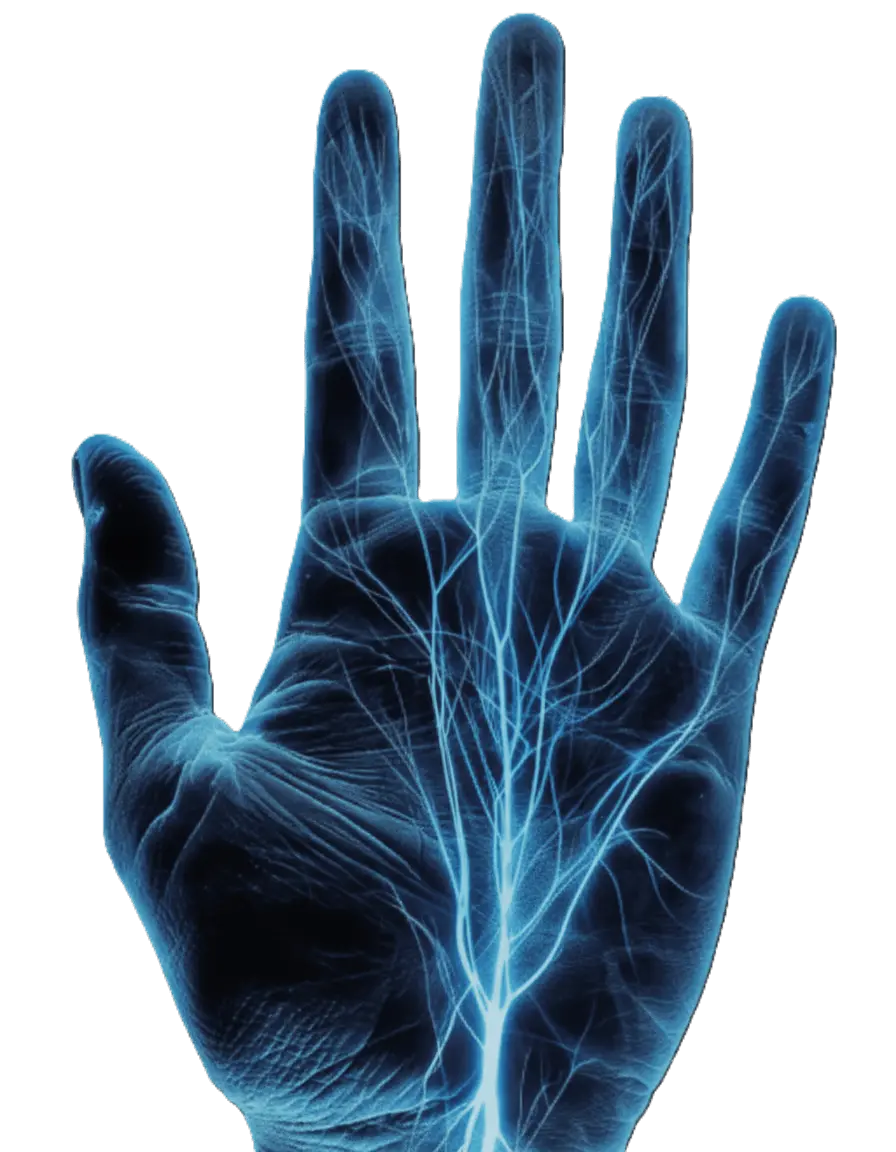
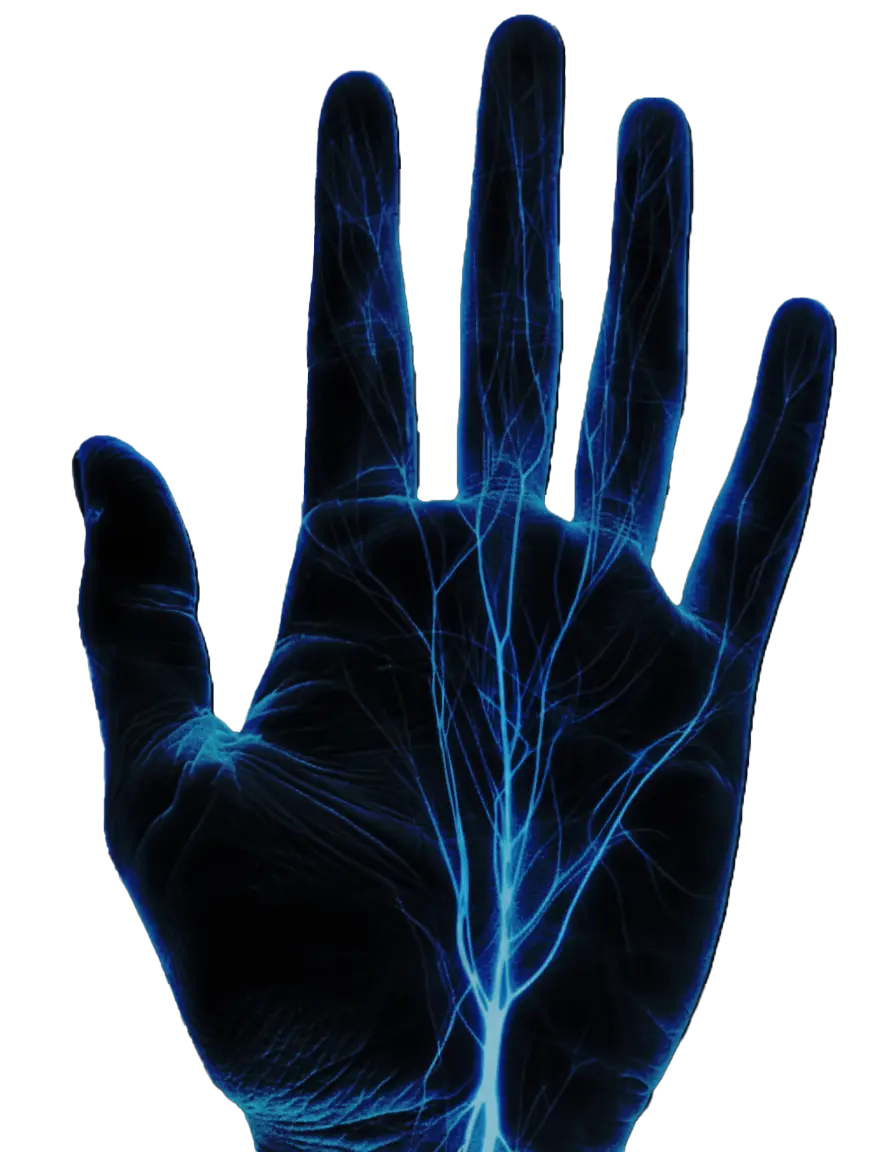
about -  color fixes, teams page nametag bg fix

diff --git a/src/app/Pages/About-3/About-3.jsx b/src/app/Pages/About-3/About-3.jsx
@@ -46,40 +46,40 @@ function LuneVeilSigil({ Title, Desc, Icon, HLabel, HValue, FLabel, FValue }) {
       backdrop-blur-sm 
       rounded-xl 
       p-6 
-      border border-cyan-500/30 
-      shadow-[0_0_30px_rgba(6,182,212,0.3)] 
-      hover:shadow-[0_0_50px_rgba(6,182,212,0.5)] 
-      hover:border-cyan-500/60 transition-all duration-300 group
+      border border-blue-500/30 
+      shadow-[0_0_30px_rgba(6,104,212,0.3)] 
+      hover:shadow-[0_0_50px_rgba(6,102,212,0.5)] 
+      hover:border-blue-500/60 transition-all duration-300 group
       "
     >
       <div className="flex items-start justify-between mb-4">
         <div
           className="
-          bg-gradient-to-br from-cyan-500/20 to-cyan-600/20 
+          bg-gradient-to-br from-blue-500/20 to-blue-600/20 
           w-12 h-12 
           rounded-lg 
           flex items-center justify-center 
-          border border-cyan-500/50 
-          shadow-[0_0_20px_rgba(6,182,212,0.4)]
+          border border-blue-500/50 
+          shadow-[0_0_20px_rgba(6,103,212,0.4)]
           "
         >
-          <Icon className="w-6 h-6 text-cyan-400" />
+          <Icon className="w-6 h-6 text-blue-400" />
         </div>
         <div className="text-right">
-          <div className="text-xs text-cyan-500 tracking-wider uppercase mb-1">
+          <div className="text-xs text-blue-500 tracking-wider uppercase mb-1">
             {HLabel}
           </div>
           <div className="text-white">{HValue}</div>
         </div>
       </div>
 
-      <h3 className="text-cyan-100 mb-3">{Title}</h3>
+      <h3 className="text-blue-100 mb-3">{Title}</h3>
       <p className="text-slate-400 text-sm mb-4">{Desc}</p>
 
-      <div className="pt-3 border-t border-cyan-500/20">
+      <div className="pt-3 border-t border-blue-500/20">
         <div className="flex justify-between text-xs">
           <span className="text-slate-500">{FLabel}</span>
-          <span className="text-cyan-400">{FValue}</span>
+          <span className="text-blue-500">{FValue}</span>
         </div>
       </div>
     </div>
@@ -120,8 +120,10 @@ export default function About3({ id }) {
   return (
     <section
       id={id}
-      className="flex flex-col items-center p-6 min-h-screen mb-10 overflow-hidden"
+      className="relative flex flex-col items-center p-6 min-h-screen overflow-hidden bg-zinc-950"
     >
+      <div class="absolute top-1/4 left-1/4 -translate-x-1/2 w-full h-1/2 bg-blue-900/20 blur-[160px] rounded-full pointer-events-none"></div>
+
       <div className="mb-20">
         <div className="grid md:grid-cols-2 gap-12 items-center mx-10">
           <div>
@@ -136,7 +138,7 @@ export default function About3({ id }) {
                 Vein Driven
               </h1>
               <div className="relative inline-block">
-                <h1 className="text-transparent bg-clip-text bg-gradient-to-r from-cyan-400 via-cyan-300 to-cyan-500 text-5xl md:text-7xl lg:text-8xl animate-pulse mb-0">
+                <h1 className="text-transparent bg-clip-text bg-gradient-to-r from-blue-400 via-cyan-500 to-blue-500 text-5xl md:text-7xl lg:text-8xl animate-pulse mb-0">
                   Precision.
                 </h1>
               </div>
@@ -158,21 +160,20 @@ export default function About3({ id }) {
           </div>
 
           <div className="relative group mb-5 mt-15 ">
-            <div className="absolute inset-0 overflow-hidden rounded-xl z-20 pointer-events-none h-full w-full animate-slide">
-              <div className="absolute w-full h-1 bg-gradient-to-r from-transparent via-cyan-400 to-transparent" />
-            </div>
-
-            <div className="absolute bg-black w-full h-full mix-blend-overlay z-1 opacity-75"></div>
-
             <div className="absolute top-4 left-4 text-cyan-400 text-xs font-mono">
               <div className="flex items-center gap-2 mb-1">
-                <div className="w-2 h-2 bg-cyan-400 rounded-full animate-pulse" />
-                <span>SCANNING ACTIVE</span>
+                <div className="w-2 h-2 bg-blue-400 rounded-full animate-pulse" />
+                <span className="text-blue-500">SCANNING ACTIVE</span>
               </div>
-              <div className="text-cyan-500/100">NIR_SENSOR_01</div>
+              <div className="text-blue-500">NIR_SENSOR_01</div>
             </div>
 
-            <div className="relative flex items-center justify-center">
+            <div
+              className="
+                relative flex items-center justify-center 
+                saturate-[1.1]
+              "
+            >
               <img
                 src="Assets/veinless-scan.webp"
                 alt="Vein Scan Image"
@@ -209,14 +210,18 @@ export default function About3({ id }) {
             </div>
 
             <div className="absolute bottom-4 right-4 text-right text-xs font-mono">
-              <div className="text-cyan-400 mb-1">MATCH: 99.97%</div>
-              <div className="text-cyan-500/100">AUTH_VERIFIED</div>
+              <div className="text-blue-500 mb-1">MATCH: 99.97%</div>
+              <div className="text-blue-500/100">AUTH_VERIFIED</div>
             </div>
 
-            <div className="absolute top-0 left-0 w-8 h-8 border-t-2 border-l-2 border-cyan-400" />
-            <div className="absolute top-0 right-0 w-8 h-8 border-t-2 border-r-2 border-cyan-400" />
-            <div className="absolute bottom-0 left-0 w-8 h-8 border-b-2 border-l-2 border-cyan-400" />
-            <div className="absolute bottom-0 right-0 w-8 h-8 border-b-2 border-r-2 border-cyan-400" />
+            <div className="absolute top-0 left-0 w-8 h-8 border-t-2 border-l-2 border-blue-400" />
+            <div className="absolute top-0 right-0 w-8 h-8 border-t-2 border-r-2 border-blue-400" />
+            <div className="absolute bottom-0 left-0 w-8 h-8 border-b-2 border-l-2 border-blue-400" />
+            <div className="absolute bottom-0 right-0 w-8 h-8 border-b-2 border-r-2 border-blue-400" />
+
+            <div class="absolute inset-0 overflow-hidden rounded-xl z-20 pointer-events-none h-full w-full animate-slide">
+              <div class="absolute w-full h-1 bg-gradient-to-r from-transparent via-cyan-400 to-transparent"></div>
+            </div>
           </div>
         </div>
       </div>
@@ -227,6 +232,7 @@ export default function About3({ id }) {
             className="
               h-px flex-1
               bg-gradient-to-r from-transparent via-cyan-500/50 to-transparent
+              
             "
           />
           <h2

diff --git a/src/app/Pages/Teams/Teams.jsx b/src/app/Pages/Teams/Teams.jsx
@@ -174,7 +174,7 @@ const NameTag = ({ name, title, className }) => {
   return (
     <div
       className={`
-        flex flex-col bg-black text-white font-sans 
+        flex flex-col text-white font-sans 
         border-2 border-transparent 
         hover:border-cyan-400 
         transition-colors duration-300 ${className}
@@ -229,8 +229,9 @@ export default function TeamsPage({ id }) {
   return (
     <section
       id={id}
-      className="relative flex flex-col w-full h-dvh overflow-hidden scroll-mt-18 mt-18"
+      className="relative flex flex-col w-full h-dvh overflow-hidden scroll-mt-18 mt-18 bg-zinc-950"
     >
+      <div class="absolute top-1/4 left-1/3 -translate-x-1/2 w-full h-full bg-blue-900/20 blur-[120px] rounded-full pointer-events-none"></div>
       <div className=" ml-10">
         <GlyphMaestroRune
           primaryLine={

diff --git a/src/app/Pages/About-2/About-2.jsx b/src/app/Pages/About-2/About-2.jsx
@@ -149,9 +149,9 @@ export default function About2({ id }) {
       id={id}
       className="
       relative min-h-screen flex flex-col items-center justify-center 
-      p-6 mb-10 w-full overflow-hidden scroll-mt-5 bg-[#0a0a0a]"
+      p-6 w-full overflow-hidden scroll-mt-5 bg-zinc-950 "
     >
-      {/* <div class="absolute top-0 left-1/2 -translate-x-1/2 w-full h-full bg-blue-900/20 blur-[120px] rounded-full pointer-events-none"></div> */}
+      {/* <div class="absolute top-0 left-1/2 -translate-x-1/2 w-full h-full bg-blue-900/20 blur-[50px] rounded-full pointer-events-none"></div> */}
       {/* <div
         className="
         absolute inset-0 z-0 

diff --git a/src/app/Pages/ProcessFlow/ProcessFlow.jsx b/src/app/Pages/ProcessFlow/ProcessFlow.jsx
@@ -25,7 +25,8 @@ const processSteps = [
 
 export default function ProcessFlow({ id }) {
   return (
-    <section className="w-full" id={id}>
+    <section className="w-full bg-zinc-950" id={id}>
+      {/* <div class="absolute top-1/4 left-1/3 -translate-x-1/2 w-full h-full bg-blue-900/20 blur-[120px] rounded-full pointer-events-none"></div> */}
       <div className="min-h-screen bg-black flex items-center justify-center px-8">
         <div className="max-w-7xl mx-auto flex flex-col md:flex-row items-stretch justify-center gap-6">
           {processSteps.map((step, index) => (

diff --git a/src/app/layout.js b/src/app/layout.js
@@ -25,7 +25,7 @@ export const metadata = {
 
 export default function RootLayout({ children }) {
   return (
-    <html lang="en" className="scroll-smooth w-full">
+    <html lang="en" className="scroll-smooth w-full bg-zink-950">
       <body
         className={`${geistSans.variable} ${geistMono.variable} antialiased w-full`}
       >
